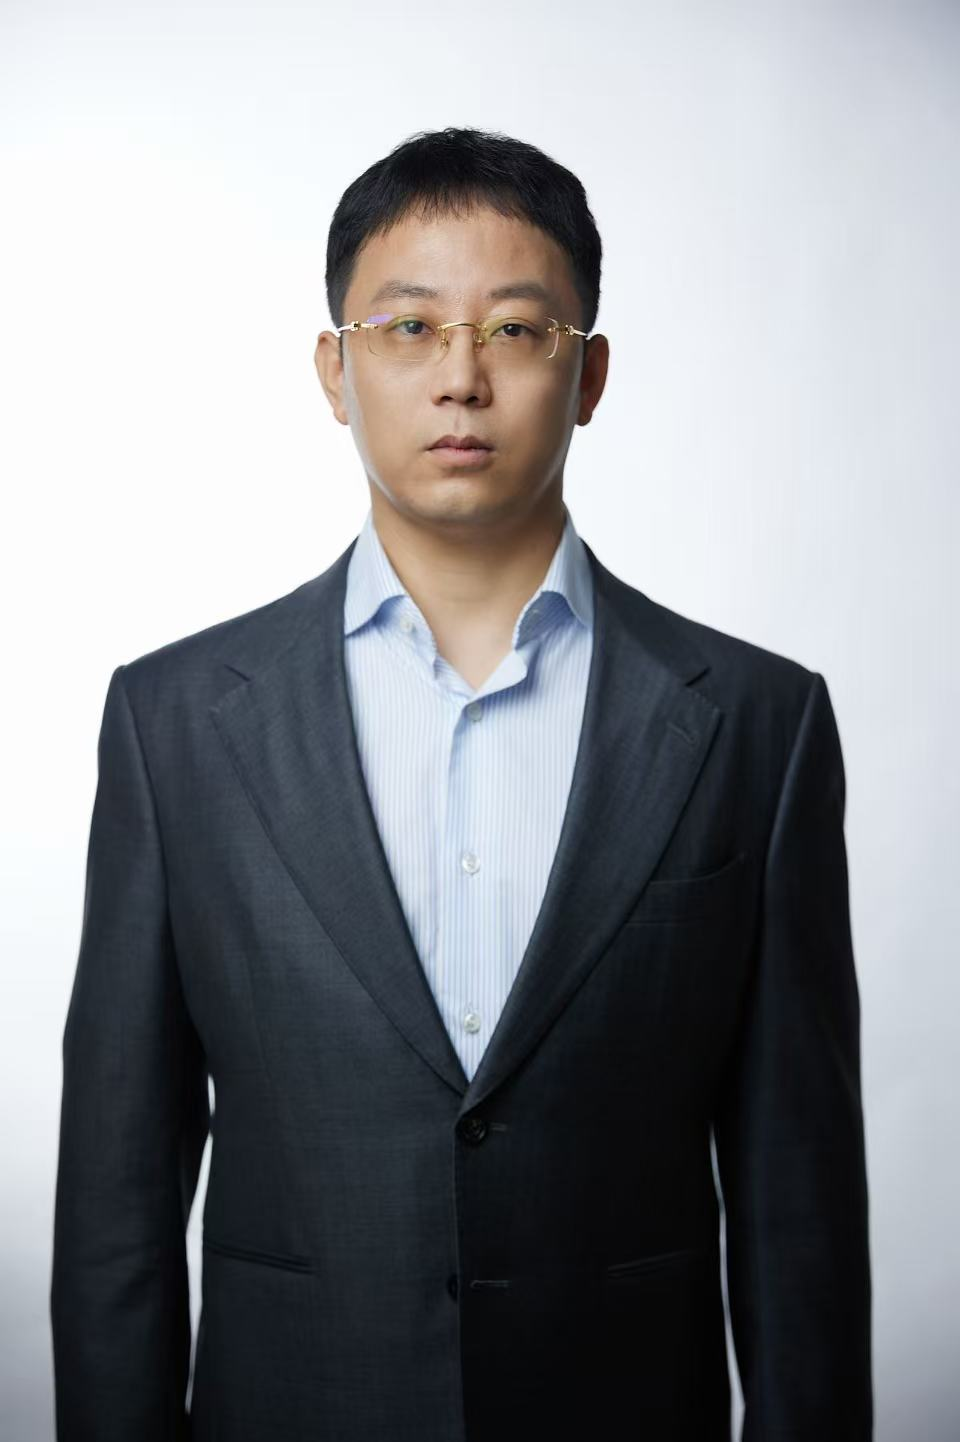
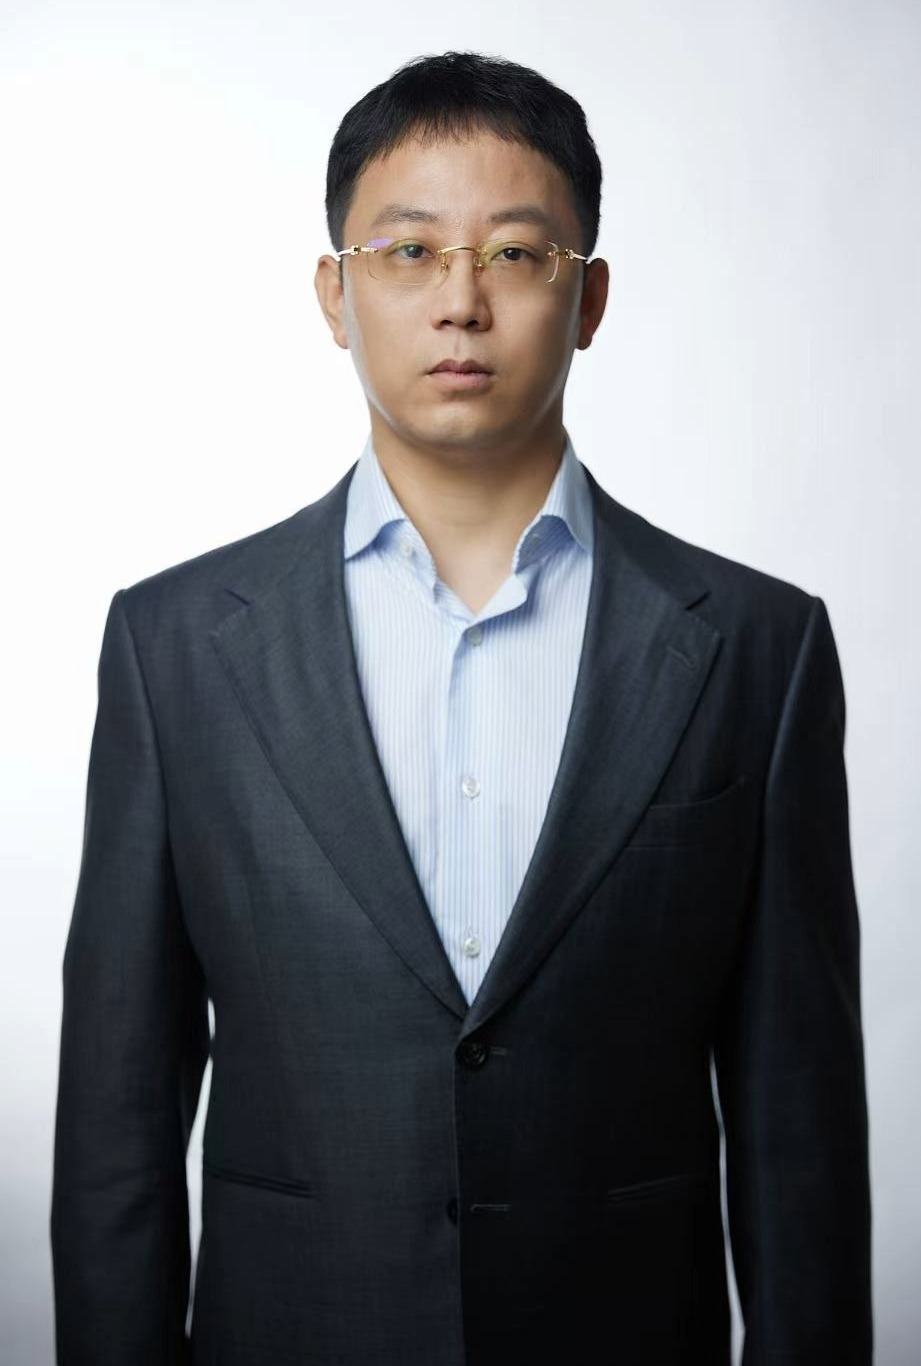
upgrade

diff --git a/publications.md b/publications.md
@@ -182,54 +182,9 @@ lang: en
 ### Chinese Patents
 <ul class="patent-list">
     <li>
-        <span class="patent-title">Method for Generating Physical Adversarial Examples for Autonomous Driving Perception System</span>
-        <span class="patent-authors">Yuanfang Chen, Xiaohan Chen, Linjian Chen, Mingjun Zhang, <strong>Kun Yang</strong></span>
-        <span class="patent-meta">Chinese Patent Number: ZL202610957801.X | Authorization Announcement Number: CN122493415B | Granted: 2026-08-28</span>
-    </li>
-    <li>
-        <span class="patent-title">A Method for Evaluating the Security of Out-of-Band Data Storage Modes in Firmware</span>
-        <span class="patent-authors"><strong>Kun Yang</strong>, Jingdian Ming; Kui Ren; Shenye Fu; Yulin Tang;</span>
-        <span class="patent-meta">Chinese Patent Number: ZL202311650565.X | Authorization Announcement Number: CN117648722B | Granted: 2026-07-17</span>
-    </li>
-    <li>
-        <span class="patent-title">A Secure Boot Startup Method and Device</span>
-        <span class="patent-authors"><strong>Kun Yang</strong>, Jingdian Ming; Kui Ren</span>
-        <span class="patent-meta">Chinese Patent Number: ZL202310150459.9 | Authorization Announcement Number: CN116340950A | Granted: 2026-06-26</span>
-    </li>
-    <li>
-        <span class="patent-title">Data Encryption Method, Apparatus, Computer Device, and Storage Medium</span>
-        <span class="patent-authors"><strong>Kun Yang</strong>, Zhaoyuan Li, Kui Ren</span>
-        <span class="patent-meta">Chinese Patent Number: ZL202411865596.1 | Authorization Announcement Number: CN119945661B | Granted: 2026-06-23</span>
-    </li>
-    <li>
-        <span class="patent-title">An Autonomous Driving Safety Assessment Method, System, Device, and Readable Storage Medium</span>
-        <span class="patent-authors"><strong>Kun Yang</strong>, Request for Anonymity, Kui Ren</span>
-        <span class="patent-meta">Chinese Patent Number: ZL202610025168.0 | Authorization Announcement Number: CN121475735B | Granted: 2026-06-12</span>
-    </li>
-    <li>
-        <span class="patent-title">Control Flow Integrity Acceleration Method, Apparatus, Device, and Readable Storage Medium</span>
-        <span class="patent-authors"><strong>Kun Yang</strong>, Sisi Li, Kui Ren</span>
-        <span class="patent-meta">Chinese Patent Number: ZL202610077732.3 | Authorization Announcement Number: CN121567472B | Granted: 2026-05-12</span>
-    </li>
-    <li>
-        <span class="patent-title">Distributed TEE System and Communication Method Based on Distributed TEE System</span>
-        <span class="patent-authors"><strong>Kun Yang</strong>, Sisi Li, Kui Ren</span>
-        <span class="patent-meta">Chinese Patent Number: ZL202411566653.6 | Authorization Announcement Number: CN119728090B | Granted: 2026-04-07</span>
-    </li>
-    <li>
-        <span class="patent-title">Feature Enhancement Processing Method, Apparatus, Computer Device and Computer-Readable Storage Medium</span>
-        <span class="patent-authors">Yuanfang Chen, Linjian Chen, Yuyang Luo, Jiashun Ju, <strong>Kun Yang</strong></span>
-        <span class="patent-meta">Chinese Patent Number: ZL202610003602.5 | Authorization Announcement Number: CN121459119B | Granted: 2026-03-17</span>
-    </li>
-    <li>
-        <span class="patent-title">Zero-Shot Anomaly Detection Method Based on Causal Learning</span>
-        <span class="patent-authors">Yuanfang Chen, Jiashun Ju, Xing Fang, Yuyang Luo, <strong>Kun Yang</strong></span>
-        <span class="patent-meta">Chinese Patent Number: ZL202610013458.3 | Authorization Announcement Number: CN121459081B | Granted: 2026-03-17</span>
-    </li>
-    <li>
-        <span class="patent-title">Lookup Table-Based Modular Multiplier and Modular Multiplication Operation Method</span>
-        <span class="patent-authors"><strong>Kun Yang</strong>, Zhaoyuan Li, Kui Ren</span>
-        <span class="patent-meta">Chinese Patent Number: ZL202511222332.9 | Authorization Announcement Number: CN120723202B | Granted: 2026-01-02</span>
+        <span class="patent-title"> A High-Throughput Secure Pseudo-Random Number Generator and Method for FPGA</span>
+        <span class="patent-authors"><strong>Kun Yang</strong>, Zhiyuan Chen, Xingjian Tian, Kui Ren</span>
+        <span class="patent-meta">Chinese Patent Number: ZL202510402023.3 | Authorization Announcement Number: CN119917064B | Granted: 2025-06-27</span>
     </li>
     <li>
         <span class="patent-title">A Chip Attack Detection Circuit</span>
@@ -237,9 +192,59 @@ lang: en
         <span class="patent-meta">Chinese Patent Number: ZL202310105025.7 | Authorization Announcement Number: CN116208314B | Granted: 2025-11-14</span>
     </li>
     <li>
-        <span class="patent-title"> A High-Throughput Secure Pseudo-Random Number Generator and Method for FPGA</span>
-        <span class="patent-authors"><strong>Kun Yang</strong>, Zhiyuan Chen, Xingjian Tian, Kui Ren</span>
-        <span class="patent-meta">Chinese Patent Number: ZL202510402023.3 | Authorization Announcement Number: CN119917064B | Granted: 2025-06-27</span>
+        <span class="patent-title">Lookup Table-Based Modular Multiplier and Modular Multiplication Operation Method</span>
+        <span class="patent-authors"><strong>Kun Yang</strong>, Zhaoyuan Li, Kui Ren</span>
+        <span class="patent-meta">Chinese Patent Number: ZL202511222332.9 | Authorization Announcement Number: CN120723202B | Granted: 2026-01-02</span>
+    </li>
+    <li>
+        <span class="patent-title">Zero-Shot Anomaly Detection Method Based on Causal Learning</span>
+        <span class="patent-authors">Yuanfang Chen, Jiashun Ju, Xing Fang, Yuyang Luo, <strong>Kun Yang</strong></span>
+        <span class="patent-meta">Chinese Patent Number: ZL202610013458.3 | Authorization Announcement Number: CN121459081B | Granted: 2026-03-17</span>
+    </li>
+    <li>
+        <span class="patent-title">Feature Enhancement Processing Method, Apparatus, Computer Device and Computer-Readable Storage Medium</span>
+        <span class="patent-authors">Yuanfang Chen, Linjian Chen, Yuyang Luo, Jiashun Ju, <strong>Kun Yang</strong></span>
+        <span class="patent-meta">Chinese Patent Number: ZL202610003602.5 | Authorization Announcement Number: CN121459119B | Granted: 2026-03-17</span>
+    </li>
+    <li>
+        <span class="patent-title">Distributed TEE System and Communication Method Based on Distributed TEE System</span>
+        <span class="patent-authors"><strong>Kun Yang</strong>, Sisi Li, Kui Ren</span>
+        <span class="patent-meta">Chinese Patent Number: ZL202411566653.6 | Authorization Announcement Number: CN119728090B | Granted: 2026-04-07</span>
+    </li>
+    <li>
+        <span class="patent-title">Control Flow Integrity Acceleration Method, Apparatus, Device, and Readable Storage Medium</span>
+        <span class="patent-authors"><strong>Kun Yang</strong>, Sisi Li, Kui Ren</span>
+        <span class="patent-meta">Chinese Patent Number: ZL202610077732.3 | Authorization Announcement Number: CN121567472B | Granted: 2026-05-12</span>
+    </li>
+    <li>
+        <span class="patent-title">An Attack Traceback Method, Electronic Device, and Program Product for Vehicle-Mounted Intrusion Detection</span>
+        <span class="patent-authors"><strong>Kun Yang</strong>, Lintao Li, Kui Ren</span>
+        <span class="patent-meta">Chinese Patent Number: ZL202610332746.5 | Authorization Announcement Number: CCN121907608B | Granted: 2026-05-29</span>
+    </li>
+    <li>
+        <span class="patent-title">An Autonomous Driving Safety Assessment Method, System, Device, and Readable Storage Medium</span>
+        <span class="patent-authors"><strong>Kun Yang</strong>, Fangfang Wang, Kui Ren</span>
+        <span class="patent-meta">Chinese Patent Number: ZL202610025168.0 | Authorization Announcement Number: CN121475735B | Granted: 2026-06-12</span>
+    </li>
+    <li>
+        <span class="patent-title">Data Encryption Method, Apparatus, Computer Device, and Storage Medium</span>
+        <span class="patent-authors"><strong>Kun Yang</strong>, Zhaoyuan Li, Kui Ren</span>
+        <span class="patent-meta">Chinese Patent Number: ZL202411865596.1 | Authorization Announcement Number: CN119945661B | Granted: 2026-06-23</span>
+    </li>
+    <li>
+        <span class="patent-title">A Method for Evaluating the Security of Out-of-Band Data Storage Modes in Firmware</span>
+        <span class="patent-authors"><strong>Kun Yang</strong>, Jingdian Ming; Kui Ren; Shenye Fu; Yulin Tang;</span>
+        <span class="patent-meta">Chinese Patent Number: ZL202311650565.X | Authorization Announcement Number: CN117648722B | Granted: 2026-07-17</span>
+    </li>
+    <li>
+        <span class="patent-title">Method and Apparatus for Driving Trajectory Risk Analysis</span>
+        <span class="patent-authors"><strong>Kun Yang</strong>, Buyi Lv, Kui Ren</span>
+        <span class="patent-meta">Chinese Patent Number: ZL202610942923.1 | Authorization Announcement Number: CN122472231A | Granted: 2026-08-19</span>
+    </li>
+    <li>
+        <span class="patent-title">A Secure Boot Startup Method and Device</span>
+        <span class="patent-authors"><strong>Kun Yang</strong>, Jingdian Ming; Kui Ren</span>
+        <span class="patent-meta">Chinese Patent Number: ZL202310150459.9 | Authorization Announcement Number: CN116340950B | Granted: 2026-08-25</span>
     </li>
 </ul>
 

diff --git a/cn/publications.md b/cn/publications.md
@@ -177,54 +177,9 @@ lang: cn
 ### 中国专利
 <ul class="patent-list">
     <li>
-        <span class="patent-title">针对自动驾驶感知系统的物理对抗样本生成方法</span>
-        <span class="patent-authors">陈媛芳; 陈潇涵; 陈林健; 张明君; <strong>杨坤</strong></span>
-        <span class="patent-meta">专利号：ZL202610957801.X | 授权公告号：CN122493415B | 授权日：2026-08-28</span>
-    </li>
-    <li>
-        <span class="patent-title">一种固件带外数据存储模式安全评估方法</span>
-        <span class="patent-authors"><strong>杨坤</strong>; 明经典，任奎，傅沈烨，汤雨林</span>
-        <span class="patent-meta">专利号：ZL202311650565.X | 授权公告号：CN117648722B | 授权日：2026-07-17</span>
-    </li>    
-    <li>
-        <span class="patent-title">一种安全引导启动方法和装置</span>
-        <span class="patent-authors"><strong>杨坤</strong>; 明经典，任奎</span>
-        <span class="patent-meta">专利号：ZL202310150459.9 | 授权公告号：CN116340950A | 授权日：2026-06-26</span>
-    </li>
-    <li>
-        <span class="patent-title">数据加密方法、装置、计算机设备和存储介质</span>
-        <span class="patent-authors"><strong>杨坤</strong>; 李兆渊; 任奎</span>
-        <span class="patent-meta">专利号：ZL202411865596.1 | 授权公告号：CN119945661B | 授权日：2026-06-23</span>
-    </li>
-    <li>
-        <span class="patent-title">一种自动驾驶安全评估方法、系统、设备和可读存储介质</span>
-        <span class="patent-authors"><strong>杨坤</strong>; 请求不公布姓名; 任奎</span>
-        <span class="patent-meta">专利号：ZL202610025168.0 | 授权公告号：CN121475735B | 授权日：2026-06-12</span>
-    </li>
-    <li>
-        <span class="patent-title">控制流完整性加速方法、装置、设备和可读存储介质</span>
-        <span class="patent-authors"><strong>杨坤</strong>; 李思思; 任奎</span>
-        <span class="patent-meta">专利号：ZL202610077732.3 | 授权公告号：CN121567472B | 授权日：2026-05-12</span>
-    </li>
-    <li>
-        <span class="patent-title">特征增强处理方法、装置、计算机设备和计算机可读存储介质</span>
-        <span class="patent-authors">陈媛芳; 陈林建; 罗宇阳; 琚佳顺; <strong>杨坤</strong></span>
-        <span class="patent-meta">专利号：ZL202610003602.5 | 授权公告号：CN121459119B | 授权日：2026-03-17</span>
-    </li>
-    <li>
-        <span class="patent-title">分布式TEE系统、基于分布式TEE系统的通信方法</span>
-        <span class="patent-authors"><strong>杨坤</strong>; 李思思; 任奎</span>
-        <span class="patent-meta">专利号：ZL202411566653.6 | 授权公告号：CN119728090B | 授权日：2026-04-07</span>
-    </li>
-    <li>
-        <span class="patent-title">基于因果学习的零样本异常检测方法</span>
-        <span class="patent-authors">陈媛芳; 琚佳顺; 方兴; 罗宇阳; <strong>杨坤</strong></span>
-        <span class="patent-meta">专利号：ZL202610013458.3 | 授权公告号：CN121459081B | 授权日：2026-03-17</span>
-    </li>
-    <li>
-        <span class="patent-title">基于查找表的模乘器及模乘运算方法</span>
-        <span class="patent-authors"><strong>杨坤</strong>; 李兆渊; 任奎</span>
-        <span class="patent-meta">专利号：ZL202511222332.9 | 授权公告号：CN120723202B | 授权日：2026-01-02</span>
+        <span class="patent-title">一种用于FPGA高吞吐量的安全伪随机数发生器和方法</span>
+        <span class="patent-authors"><strong>杨坤</strong>; 陈祉源; 田行健; 任奎</span>
+        <span class="patent-meta">专利号：ZL202510402023.3 | 授权公告号：CN119917064B | 授权日：2025-06-27</span>
     </li>
     <li>
         <span class="patent-title">一种芯片攻击检测电路</span>
@@ -232,9 +187,59 @@ lang: cn
         <span class="patent-meta">专利号：ZL202310105025.7 | 授权公告号：CN116208314B | 授权日：2025-11-14</span>
     </li>
     <li>
-        <span class="patent-title">一种用于FPGA高吞吐量的安全伪随机数发生器和方法</span>
-        <span class="patent-authors"><strong>杨坤</strong>; 陈祉源; 田行健; 任奎</span>
-        <span class="patent-meta">专利号：ZL202510402023.3 | 授权公告号：CN119917064B | 授权日：2025-06-27</span>
+        <span class="patent-title">基于查找表的模乘器及模乘运算方法</span>
+        <span class="patent-authors"><strong>杨坤</strong>; 李兆渊; 任奎</span>
+        <span class="patent-meta">专利号：ZL202511222332.9 | 授权公告号：CN120723202B | 授权日：2026-01-02</span>
+    </li>
+    <li>
+        <span class="patent-title">特征增强处理方法、装置、计算机设备和计算机可读存储介质</span>
+        <span class="patent-authors">陈媛芳; 陈林建; 罗宇阳; 琚佳顺; <strong>杨坤</strong></span>
+        <span class="patent-meta">专利号：ZL202610003602.5 | 授权公告号：CN121459119B | 授权日：2026-03-17</span>
+    </li>
+    <li>
+        <span class="patent-title">基于因果学习的零样本异常检测方法</span>
+        <span class="patent-authors">陈媛芳; 琚佳顺; 方兴; 罗宇阳; <strong>杨坤</strong></span>
+        <span class="patent-meta">专利号：ZL202610013458.3 | 授权公告号：CN121459081B | 授权日：2026-03-17</span>
+    </li>
+    <li>
+        <span class="patent-title">分布式TEE系统、基于分布式TEE系统的通信方法</span>
+        <span class="patent-authors"><strong>杨坤</strong>; 李思思; 任奎</span>
+        <span class="patent-meta">专利号：ZL202411566653.6 | 授权公告号：CN119728090B | 授权日：2026-04-07</span>
+    </li>
+    <li>
+        <span class="patent-title">控制流完整性加速方法、装置、设备和可读存储介质</span>
+        <span class="patent-authors"><strong>杨坤</strong>; 李思思; 任奎</span>
+        <span class="patent-meta">专利号：ZL202610077732.3 | 授权公告号：CN121567472B | 授权日：2026-05-12</span>
+    </li>
+    <li>
+        <span class="patent-title">一种车载入侵检测的攻击溯源方法、电子设备和程序产品</span>
+        <span class="patent-authors"><strong>杨坤</strong>; 李林涛; 任奎</span>
+        <span class="patent-meta">专利号：ZL202610332746.5 | 授权公告号：CN121567472B | 授权日：2026-05-29</span>
+    </li>
+    <li>
+        <span class="patent-title">一种自动驾驶安全评估方法、系统、设备和可读存储介质</span>
+        <span class="patent-authors"><strong>杨坤</strong>; 王方方; 任奎</span>
+        <span class="patent-meta">专利号：ZL202610025168.0 | 授权公告号：CN121907608B | 授权日：2026-06-12</span>
+    </li>
+    <li>
+        <span class="patent-title">数据加密方法、装置、计算机设备和存储介质</span>
+        <span class="patent-authors"><strong>杨坤</strong>; 李兆渊; 任奎</span>
+        <span class="patent-meta">专利号：ZL202411865596.1 | 授权公告号：CN119945661B | 授权日：2026-06-23</span>
+    </li>
+    <li>
+        <span class="patent-title">一种固件带外数据存储模式安全评估方法</span>
+        <span class="patent-authors"><strong>杨坤</strong>; 明经典，任奎，傅沈烨，汤雨林</span>
+        <span class="patent-meta">专利号：ZL202311650565.X | 授权公告号：CN117648722B | 授权日：2026-07-17</span>
+    </li>    
+    <li>
+        <span class="patent-title">驾驶轨迹风险分析方法和装置</span>
+        <span class="patent-authors"><strong>杨坤</strong>; 吕不一; 任奎</span>
+        <span class="patent-meta">专利号：ZL202610942923.1 | 授权公告号：CN122472231A | 授权日：2026-08-19</span>
+    </li>
+    <li>
+        <span class="patent-title">一种安全引导启动方法和装置</span>
+        <span class="patent-authors"><strong>杨坤</strong>; 明经典，任奎</span>
+        <span class="patent-meta">专利号：ZL202310150459.9 | 授权公告号：CN116340950B | 授权日：2026-08-25</span>
     </li>
 </ul>
 
